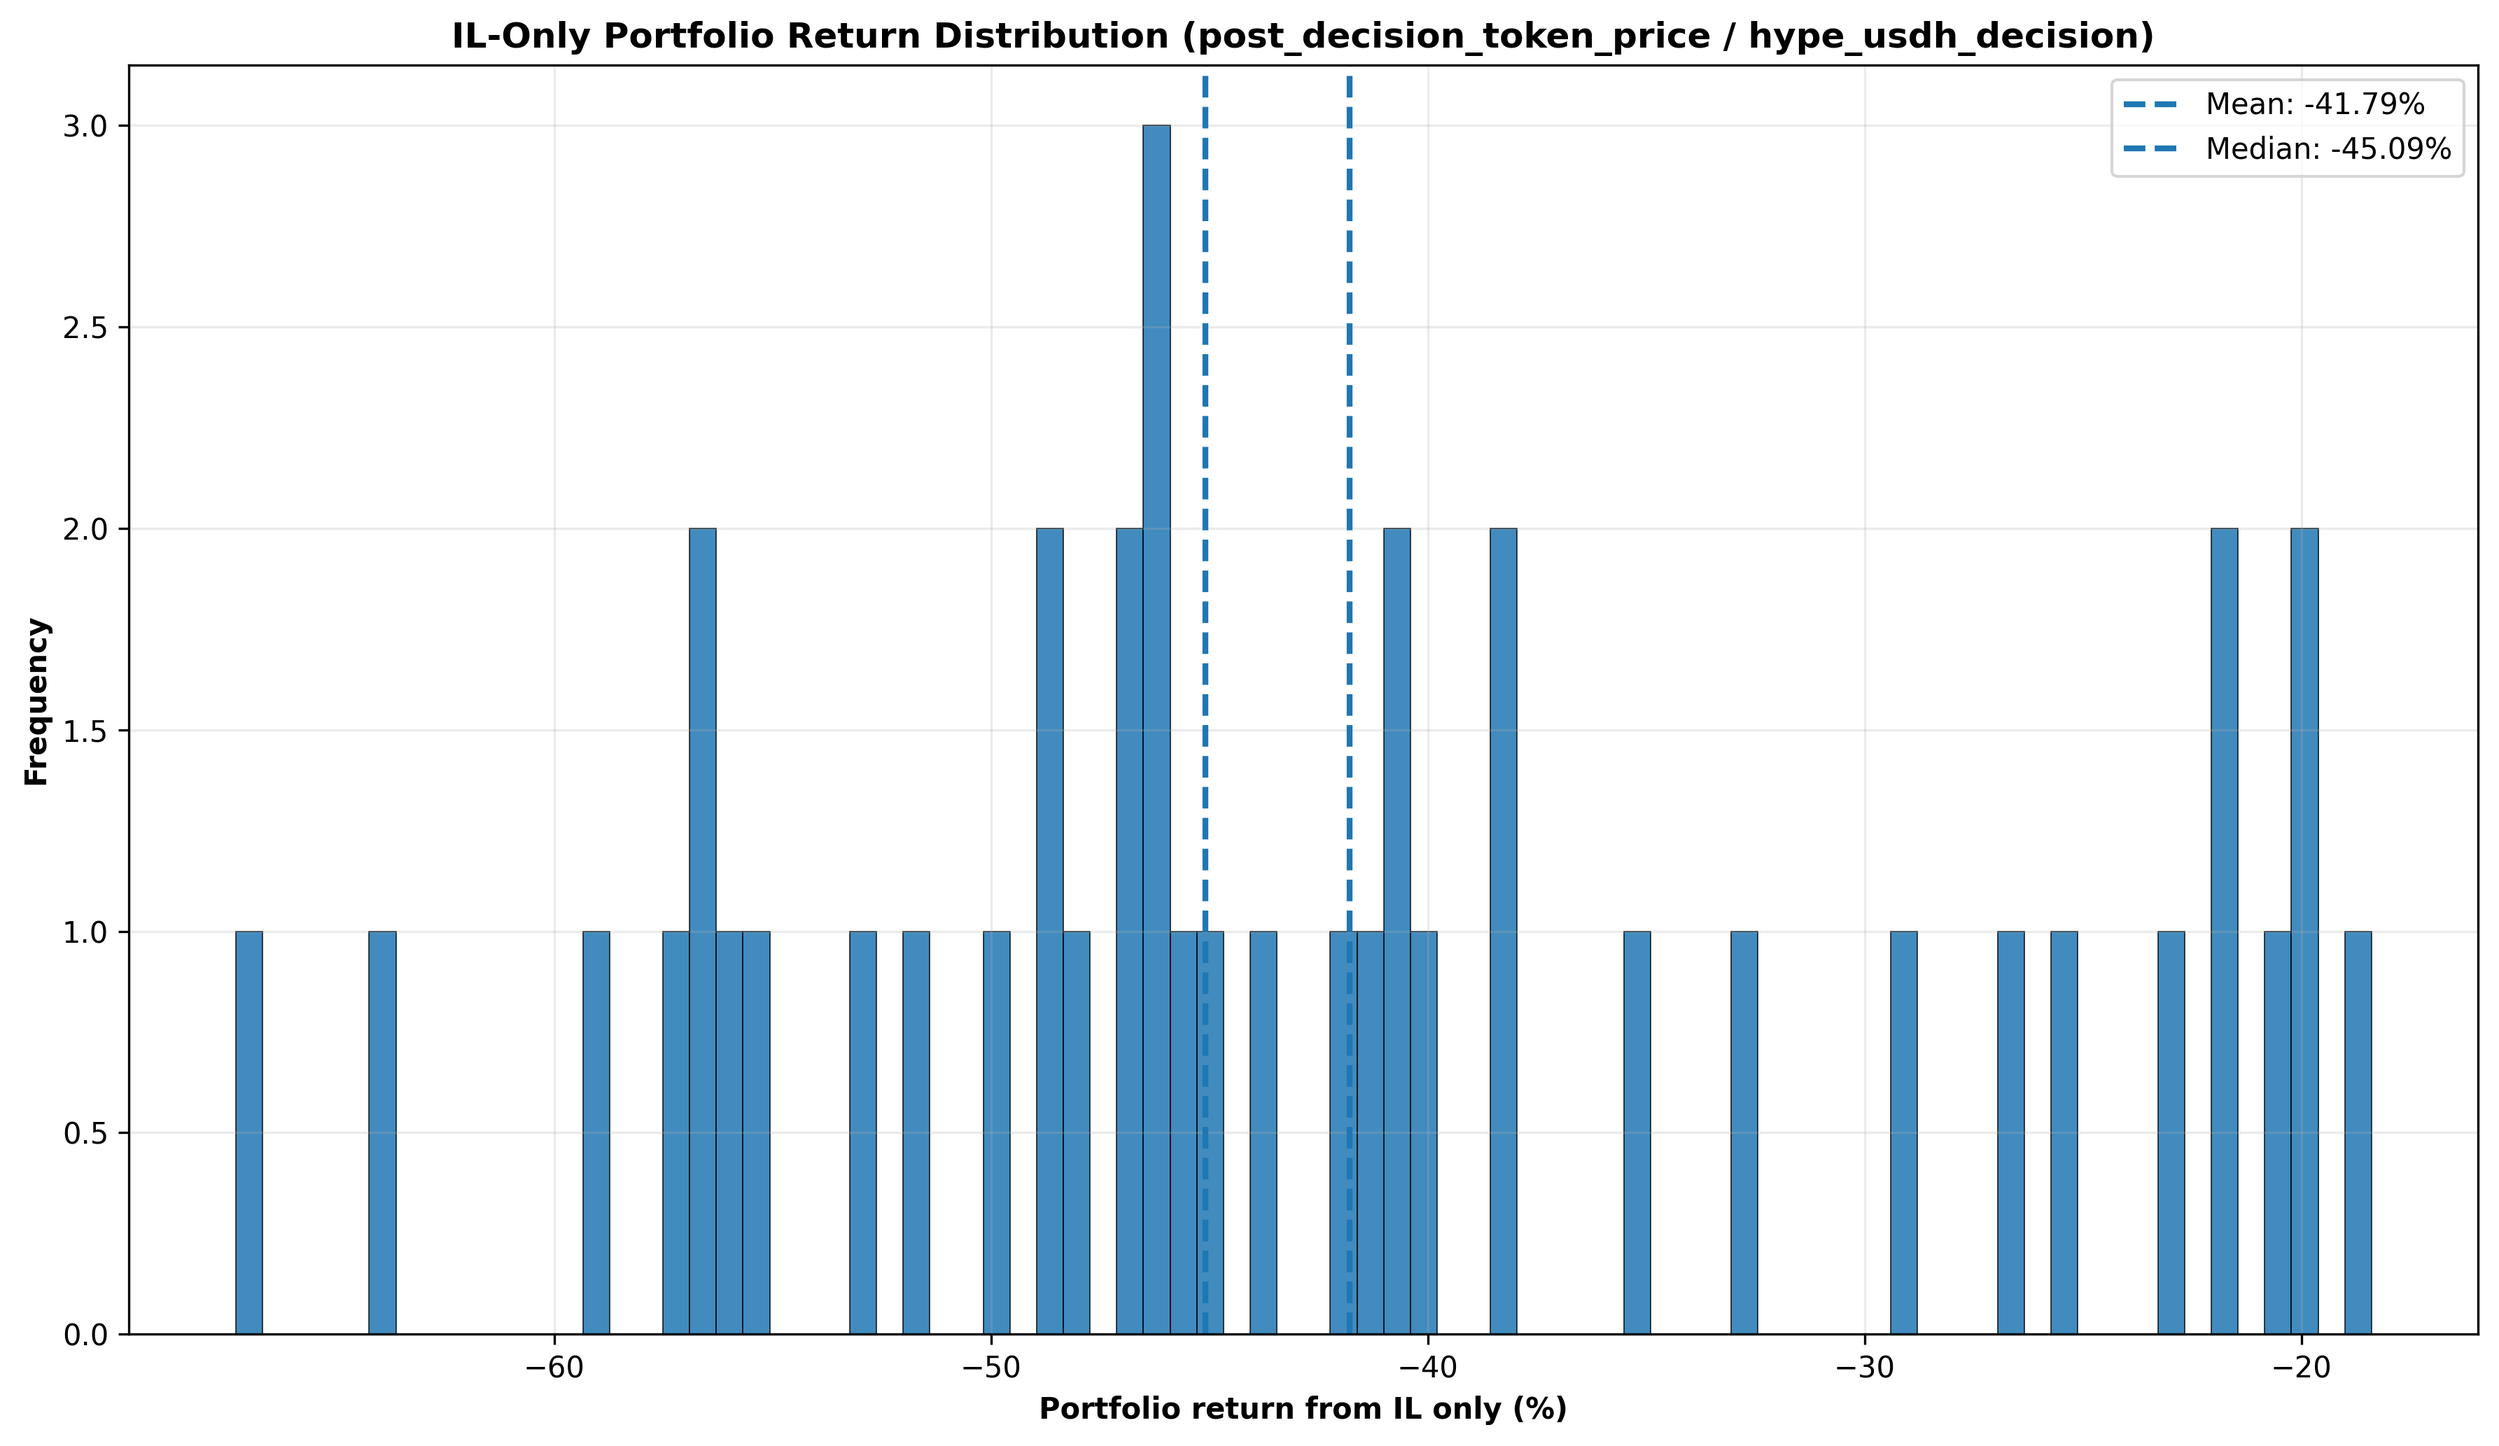
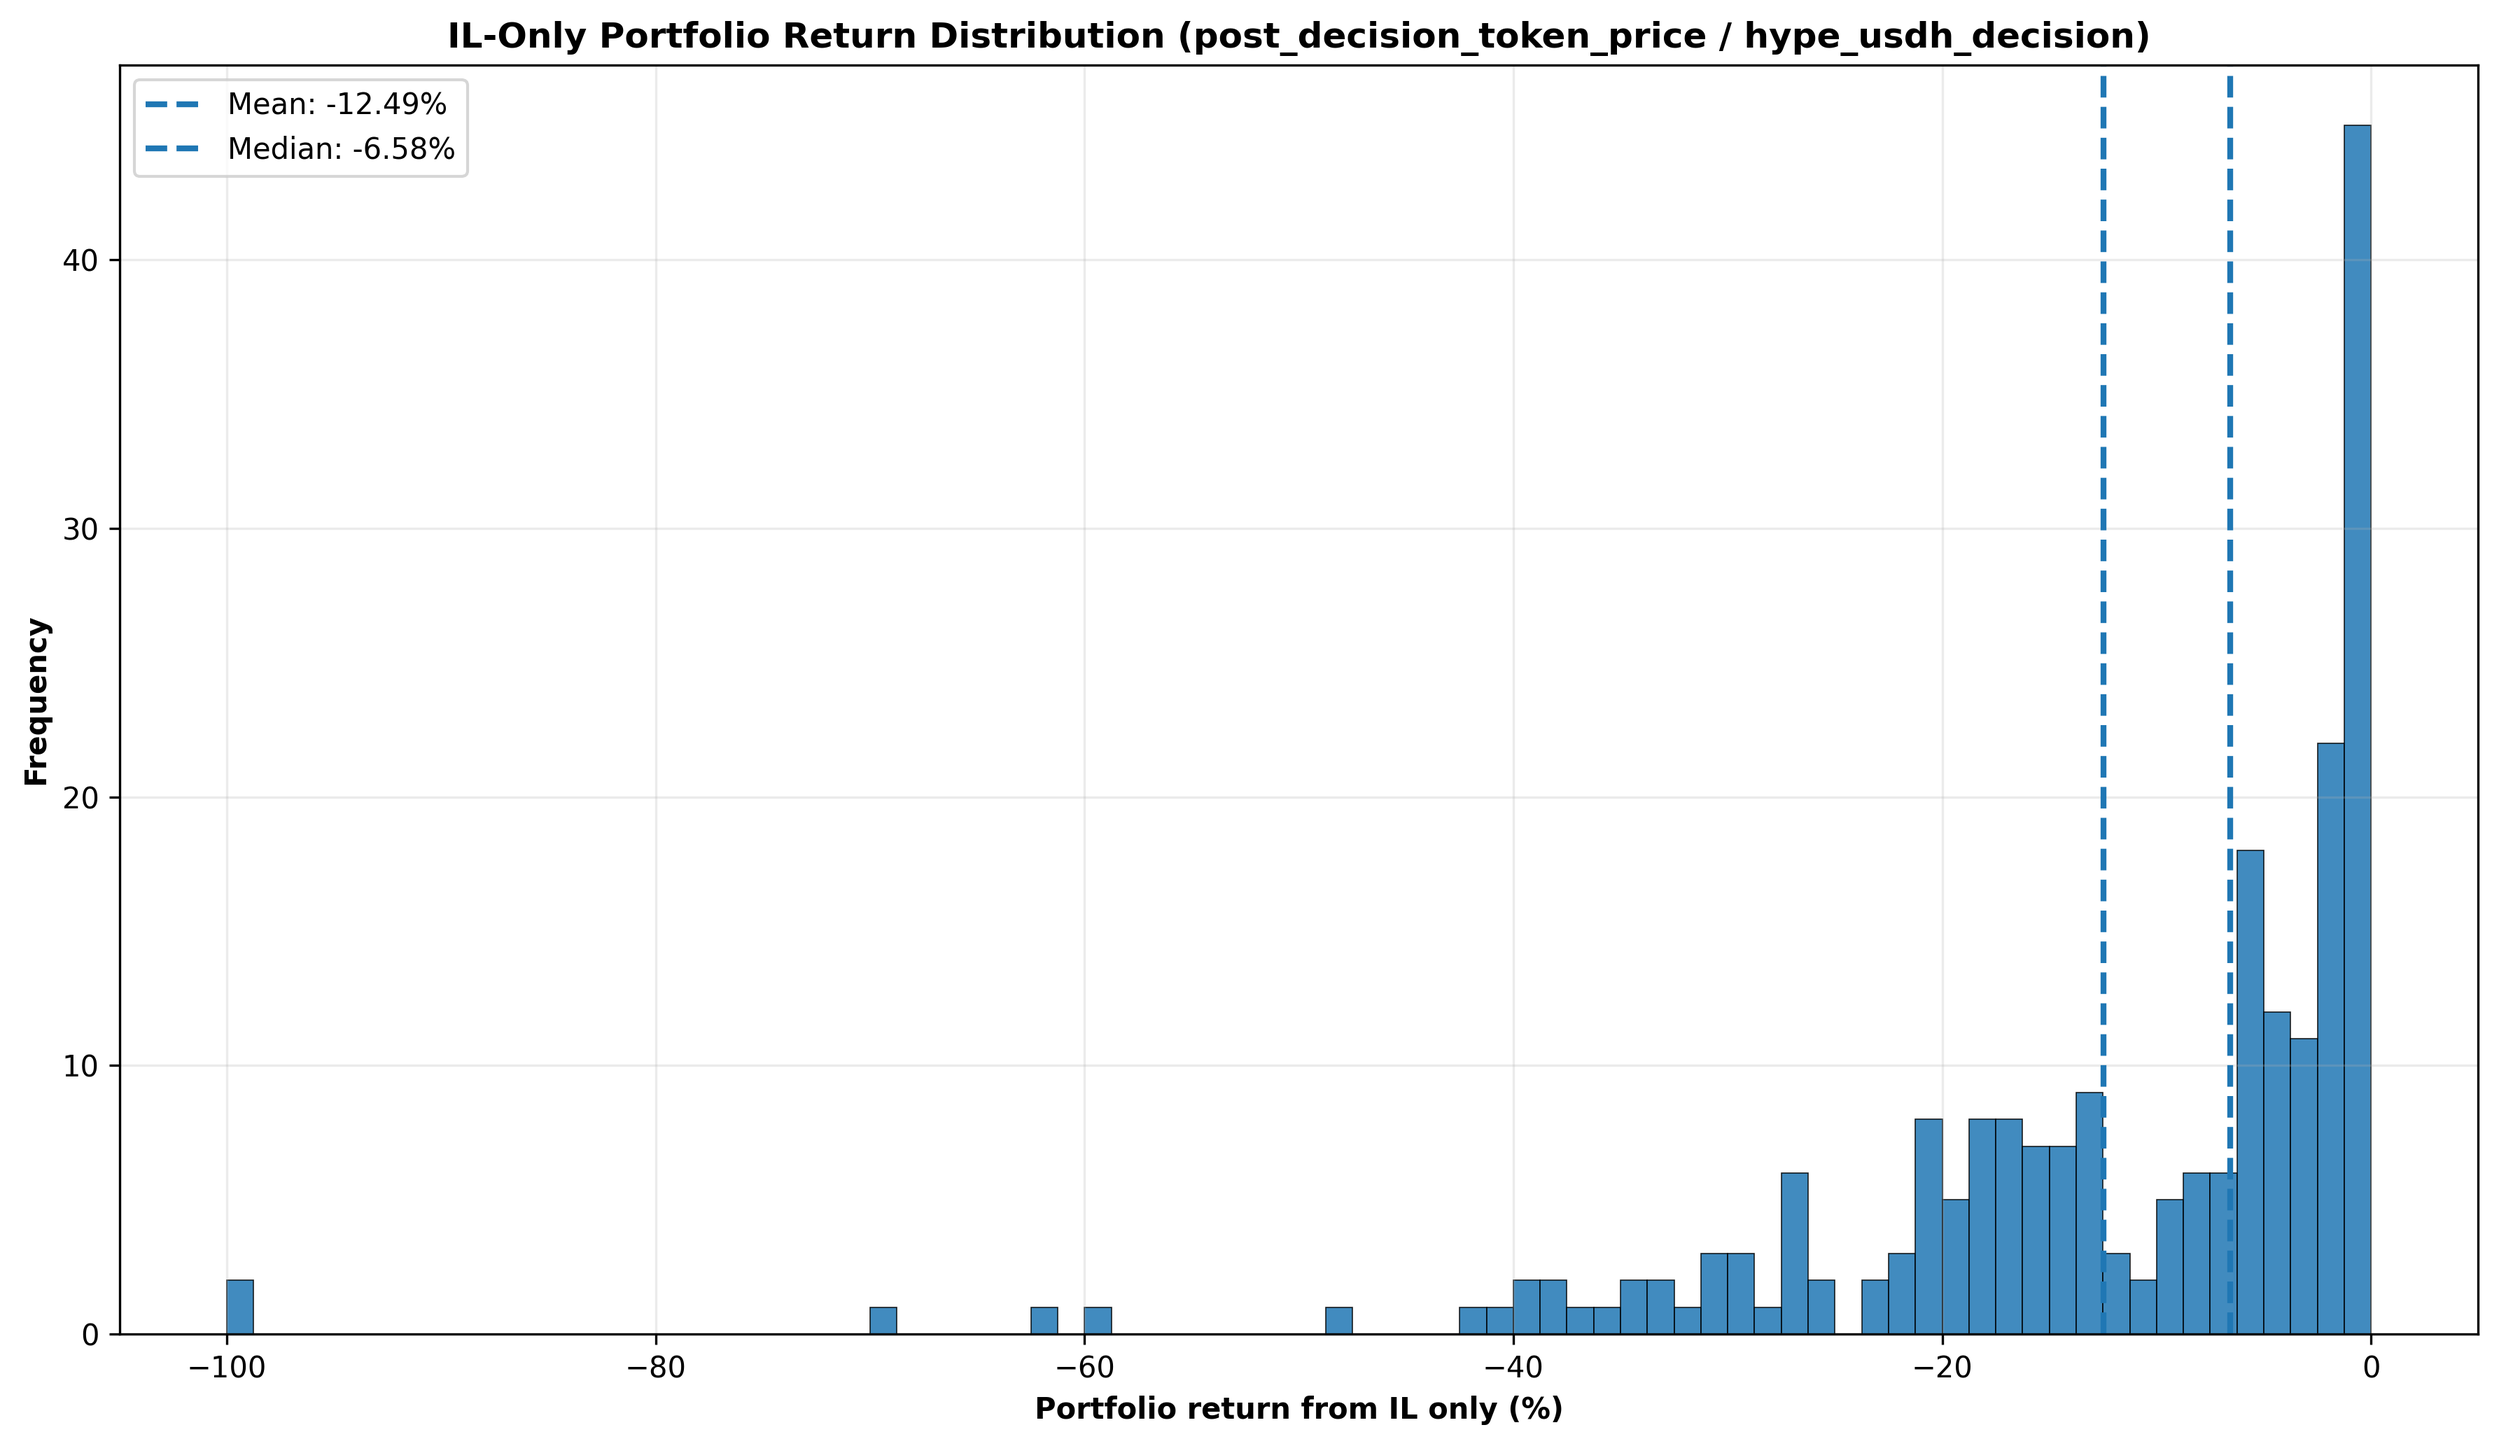
il_by_window.csv il_hist.png il_report.md il_timeseries.png

diff --git a/post_decision_token_price/hype_usdh_decision/2025-09-10-to-2025-09-15/il_report.md b/post_decision_token_price/hype_usdh_decision/2025-09-10-to-2025-09-15/il_report.md
@@ -48,7 +48,7 @@ We simulate starting at each historical window strictly earlier than the cutoff 
 We **exclude** very early windows until a minimum history (processing.min_historical_data_months) has elapsed to avoid unstable bounds.
 
 ## Important
-- **Mean** -41.79% and **median** -45.09% IL-only returns are shown below.
+- **Mean** -12.49% and **median** -6.58% IL-only returns are shown below.
 - These IL losses must be compared to incentive APY to calculate your net returns.
 
 ## Portfolio Performance
@@ -62,9 +62,9 @@ This time series shows how IL-only portfolio returns have varied across differen
 
 ### Distribution Summary (IL-only, %)
 
-- Count: **41**
-- Mean: **-41.79%**, Std: **13.08%**
-- Median: **-45.09%**  |  P25: **-50.12%**  |  P10: **-56.56%**  |  P75: **-32.49%**
+- Count: **221**
+- Mean: **-12.49%**, Std: **15.00%**
+- Median: **-6.58%**  |  P25: **-17.91%**  |  P10: **-29.94%**  |  P75: **-1.81%**
 
 ## Calculating Your Net APY
 
@@ -85,13 +85,13 @@ Where:
 - **IL_Return**: Your expected impermanent loss return (as a decimal, typically negative)
 
 ### Example Calculation (Hypothetical Numbers Only):
-**Example calculation only**: Let's say Merkl shows **200% APY** (this is just an example - actual APY varies by market) and you experience the **median IL loss (-45.09%)**:
+**Example calculation only**: Let's say Merkl shows **200% APY** (this is just an example - actual APY varies by market) and you experience the **median IL loss (-6.58%)**:
 
 1. **Scale Merkl APY to period**: 200% × 0.014 = 2.7%
 2. **Convert to multiplier**: 1 + 2.7% = 1.027
-3. **Apply median IL loss**: 1.027 × (1 + -45.1%) = 1.027 × 0.549 = 0.564
-4. **Net return for 5 days**: -43.6%
-5. **Annualized (APY)**: (0.564)^73.0 - 1 = **-100.0% APY**
+3. **Apply median IL loss**: 1.027 × (1 + -6.6%) = 1.027 × 0.934 = 0.960
+4. **Net return for 5 days**: -4.0%
+5. **Annualized (APY)**: (0.960)^73.0 - 1 = **-95.0% APY**
 
 **Steps to use this with your actual numbers:**
 1. Find your market's Merkl campaign and note the **actual APY** (not the 200% example)
